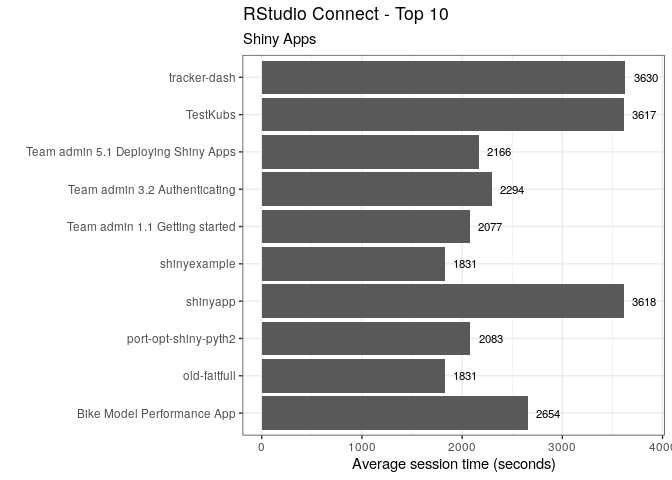
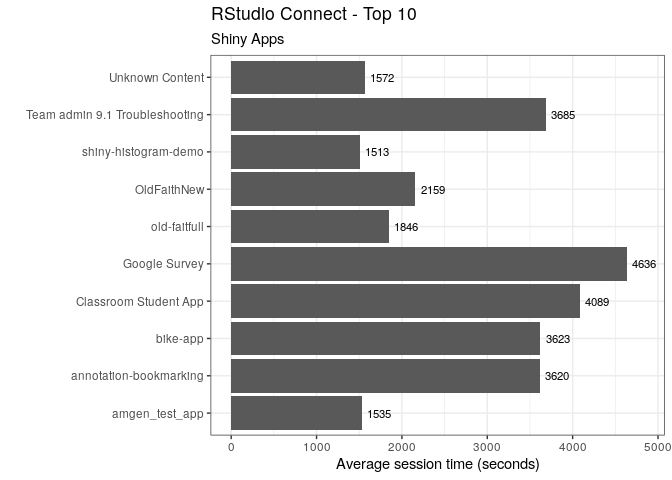
update readme

diff --git a/README.md b/README.md
@@ -4,18 +4,20 @@
 This repository illustrates several examples for getting started with
 the RStudio Connect usage data. The examples:
 
-  - [./examples/last\_30\_days](./examples/last_30_days)
+-   [./examples/last_30_days](./examples/last_30_days)
+-   [./examples/connectAnalytics](./examples/connectAnalytics)
+-   [./examples/connectViz](./examples/connectViz)
 
 The examples are generated using the [RStudio Connect Server
 API](https://docs.rstudio.com/connect/api). The API and data collection
 are both available as of RStudio Connect 1.7.0. The API contains data to
 help answer questions like:
 
-  - What content is most visited?
-  - Who is visiting my content?
-  - What reports are most common?
-  - Has viewership increased over time?
-  - Did my CEO actually visit this app?
+-   What content is most visited?
+-   Who is visiting my content?
+-   What reports are most common?
+-   Has viewership increased over time?
+-   Did my CEO actually visit this app?
 
 **A data science team’s time is precious, this data will help you focus
 and justify your efforts.**
@@ -57,14 +59,14 @@ shiny_rsc <- get_usage_shiny(
 glimpse(shiny_rsc)
 ```
 
-    ## Observations: 1,103
-    ## Variables: 6
-    ## $ content_guid     <chr> "8cbcb5a3-d491-4ad1-b307-b571c3c15b58", "5957cb…
-    ## $ user_guid        <chr> NA, "e6810648-1434-4821-b870-a58b076ed60b", NA,…
-    ## $ started          <dttm> 2020-02-04 00:02:00, 2020-02-04 00:20:13, 2020…
-    ## $ ended            <dttm> 2020-02-04 00:02:57, 2020-02-04 00:54:12, 2020…
-    ## $ data_version     <int> 1, 1, 1, 1, 1, 1, 1, 1, 1, 1, 1, 1, 1, 1, 1, 1,…
-    ## $ session_duration <drtn> 57 secs, 2039 secs, 59 secs, 21 secs, 56 secs,…
+    ## Rows: 285
+    ## Columns: 6
+    ## $ content_guid     <chr> "f59736fa-415d-410f-a161-5b7515e488e3", "eb77db7e-788…
+    ## $ user_guid        <chr> "ce40a7e2-3354-481f-b8fc-76705d729b55", "d06c9242-f4a…
+    ## $ started          <dttm> 2022-02-17 23:19:55, 2022-02-18 07:17:25, 2022-02-18…
+    ## $ ended            <dttm> 2022-02-18 00:08:29, 2022-02-18 07:48:26, 2022-02-18…
+    ## $ data_version     <int> 1, 1, 1, 1, 1, 1, 1, 1, 1, 1, 1, 1, 1, 1, 1, 1, 1, 1,…
+    ## $ session_duration <drtn> 2914 secs, 1861 secs, 20 secs, 41 secs, 790 secs, 58…
 
 The identifiers used for the content in RStudio Connect are GUIDs. We
 can retrieve content names using the API. The API handles only one GUID
@@ -83,10 +85,10 @@ shiny_rsc_titles <- shiny_rsc %>%
 glimpse(shiny_rsc_titles)
 ```
 
-    ## Observations: 68
-    ## Variables: 2
-    ## $ content_guid <chr> "05e41a9e-d90d-4378-85f4-60bdfadadac7", "09bfa711-d…
-    ## $ content_name <chr> "Tracker Shiny App", "Bike Model Performance App", …
+    ## Rows: 47
+    ## Columns: 2
+    ## $ content_guid <chr> "0287f7d9-4d55-4813-8852-680f54beaad1", "06484fbb-f686-42…
+    ## $ content_name <chr> "Example Palmer Penguins Shiny Dashboard", "Classroom Stu…
 
 The new `shiny_rsc_titles` table, and the `shiny_rsc` can be joined to
 return the “user readable” title. Using standard `dplyr` and `ggplot2`
